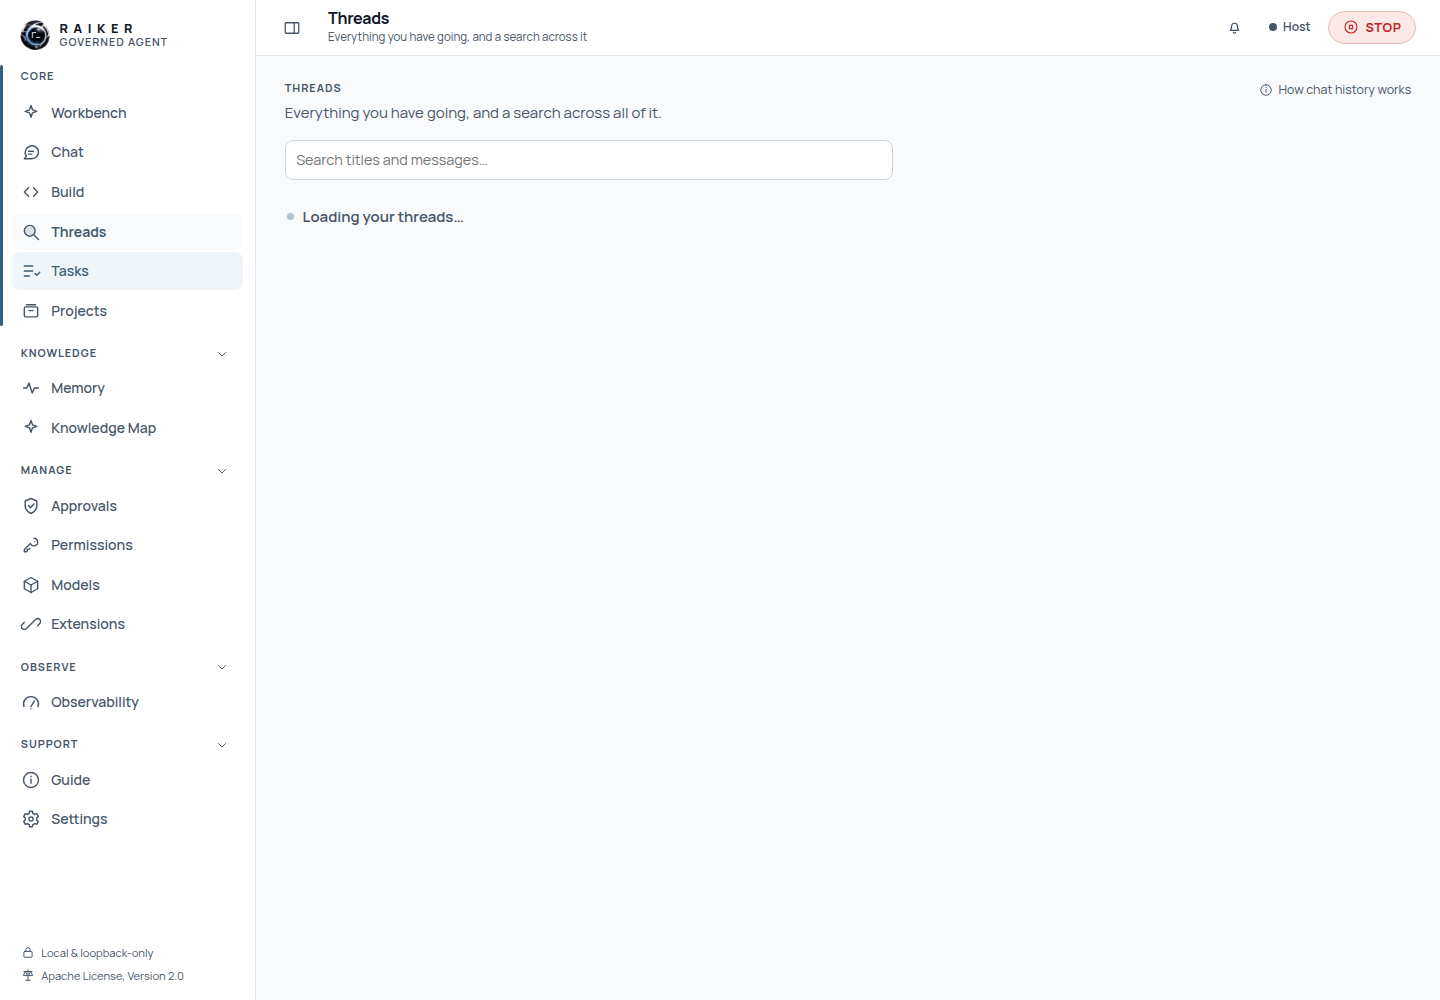
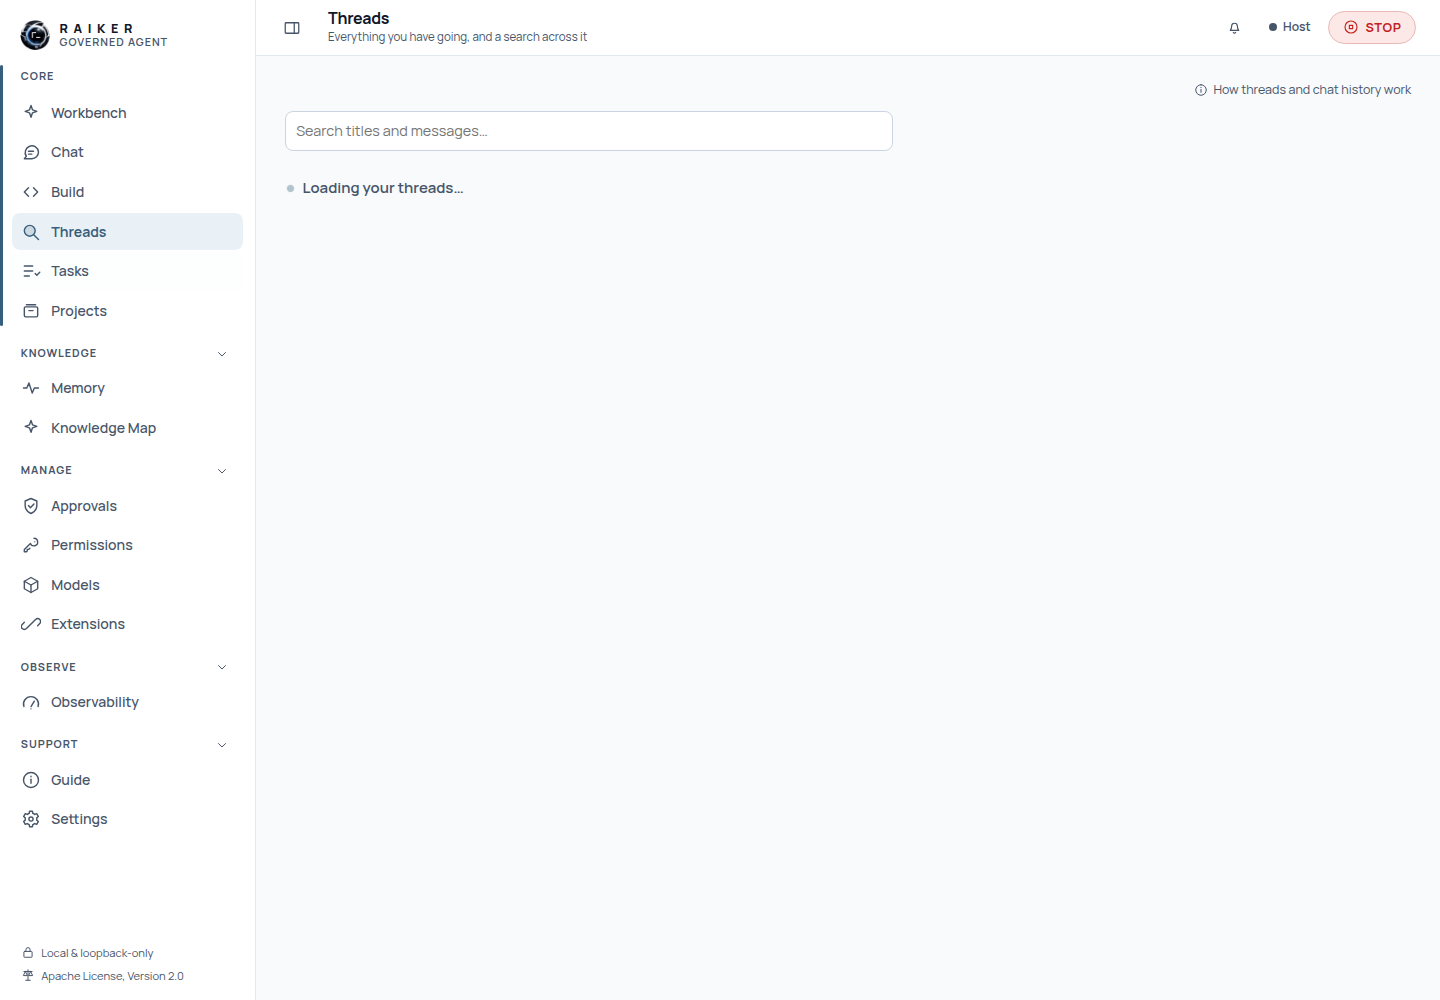
A grey circle beside Send, and a page saying its own name three times
Both found by walking the round's own surfaces, and both are its own doing:
FIXED-365 stopped a fresh install selecting a model it cannot serve, so the
"no model" state went from almost never on screen to always, until the owner
chooses one.

The context ring had no arc to draw and drew its track anyway — a bare circle
next to Send, labelled with the constant "Context window", so there was nothing
in it and nothing saying why. It draws a dash now, and both composers name the
state, which is also what a screen reader hears instead of a window that sounds
like it has a size.

Threads printed its own name and purpose under a topbar already showing both.
On an empty board that was three lines of chrome over nothing.

Claude-Session: https://claude.ai/code/session_016YA3n1hhkEFz7VCnfQ7Nbs

Changed region(s): [[0.1875, 0.062, 0.4688, 0.248], [0.8438, 0.062, 0.9688, 0.093]]

diff --git a/apps/web/src/lib/views/ChatView.composerParity.test.ts b/apps/web/src/lib/views/ChatView.composerParity.test.ts
@@ -97,6 +97,33 @@ const NON_REASONING_PROFILE = {
 };
 
 describe("ChatView composer parity", () => {
+  // FIXED-365 exposed this. With no model selected there is no capacity to
+  // report, so the ring drew a bare grey circle beside Send — a control with no
+  // content and no explanation, which a fresh install now meets every time
+  // rather than almost never.
+  it("says the capacity is unknown rather than drawing an unexplained ring", async () => {
+    stubFetch({ ...routes(), "GET /api/models": { profiles: [], chat_profiles: [] } });
+    render(ChatView, { projects });
+
+    expect(
+      await screen.findByRole("button", { name: "Context window — capacity unknown" }),
+    ).toBeInTheDocument();
+  });
+
+  it("names the window plainly once a model reports one", async () => {
+    const sized = {
+      profile_id: "test-ready", provider: "ollama", model: "test-model",
+      selected: true, configured: true, ready: true, readiness_state: "ready",
+      context_window_tokens: 200_000,
+    };
+    stubFetch({ ...routes(), "GET /api/models": { profiles: [sized], chat_profiles: [sized] } });
+    render(ChatView, { projects });
+
+    expect(
+      await screen.findByRole("button", { name: "Context window" }),
+    ).toBeInTheDocument();
+  });
+
   it("is the Cowork-minimal composer: no Build switch, no duplicate capacity chip", async () => {
     stubFetch(routes());
     render(ChatView, { projects });
@@ -110,7 +137,7 @@ describe("ChatView composer parity", () => {
     expect(screen.queryByLabelText("Execution environment")).not.toBeInTheDocument();
     // What a Cowork-shaped composer does keep.
     expect(screen.getByRole("button", { name: "Dictate" })).toBeInTheDocument();
-    expect(screen.getByRole("button", { name: "Context window" })).toBeInTheDocument();
+    expect(screen.getByRole("button", { name: /^Context window/ })).toBeInTheDocument();
   });
 
   it("keeps dictated text editable and sends it only after explicit Send", async () => {
@@ -216,7 +243,7 @@ describe("ChatView composer parity", () => {
     expect(rail.closest(".chat-layout")).toHaveClass("with-rail");
     expect(screen.getByLabelText("Project for this chat")).toBeInTheDocument();
     expect(screen.getByRole("button", { name: /approval mode/i })).toBeInTheDocument();
-    expect(screen.getByRole("button", { name: "Context window" })).toBeInTheDocument();
+    expect(screen.getByRole("button", { name: /^Context window/ })).toBeInTheDocument();
   });
 
   it("uses the persisted selected model and exposes only its supported thinking efforts", async () => {

diff --git a/apps/web/src/lib/views/SearchChatView.svelte b/apps/web/src/lib/views/SearchChatView.svelte
@@ -102,11 +102,10 @@
 </script>
 
 <section class="search-chat">
+  <!-- The topbar already carries this destination's name and what it is for.
+       Repeating both here was two lines of the same sentence above an empty
+       page; the search box is what the owner came for. -->
   <header>
-    <div>
-      <p class="kicker">Threads</p>
-      <p class="intro">Everything you have going, and a search across all of it.</p>
-    </div>
     <GuideLink route="search-chat" />
   </header>
   <label class="search-field">
@@ -232,14 +231,9 @@
   header {
     display: flex;
     align-items: flex-start;
-    justify-content: space-between;
+    justify-content: flex-end;
     gap: var(--space-4);
-    margin-bottom: var(--space-4);
-  }
-  .intro {
-    max-width: var(--prose-measure);
-    margin: 0;
-    color: var(--text-2);
+    margin-bottom: var(--space-3);
   }
   .search-field {
     display: block;
@@ -356,9 +350,6 @@
     color: var(--warn);
   }
   @media (max-width: 42rem) {
-    header {
-      flex-direction: column;
-    }
     li a {
       grid-template-columns: 1fr;
     }

diff --git a/apps/web/src/lib/components/ContextRing.svelte b/apps/web/src/lib/components/ContextRing.svelte
@@ -50,6 +50,22 @@
       stroke-dasharray={`${dash} ${C}`}
       transform="rotate(-90 8 8)"
     />
+  {:else}
+    <!-- Nothing is known about this model's capacity, so the ring has no arc to
+         draw. Without this it renders as a bare grey circle beside Send: a
+         control with no content and no explanation, which is what a fresh
+         install now sees every time (FIXED-365 stopped it selecting a model it
+         cannot serve). The dash says "no measurement", which is true, and is
+         what the popover behind it goes on to explain. -->
+    <line
+      x1="5"
+      y1="8"
+      x2="11"
+      y2="8"
+      stroke="var(--text-3)"
+      stroke-width="1.6"
+      stroke-linecap="round"
+    />
   {/if}
 </svg>
 

diff --git a/apps/web/src/lib/views/BuildView.svelte b/apps/web/src/lib/views/BuildView.svelte
@@ -2090,9 +2090,13 @@
               <button
                 type="button"
                 class="context-trigger"
-                aria-label="Context window"
+                aria-label={activeProfile?.context_window_tokens
+                  ? "Context window"
+                  : "Context window — capacity unknown"}
                 aria-expanded={contextOpen}
-                title="Context window"
+                title={activeProfile?.context_window_tokens
+                  ? "Context window"
+                  : "Context window — capacity unknown"}
                 onclick={() => { contextOpen = !contextOpen; if (contextOpen) void refreshContextUsage(); }}
               >
                 <ContextRing

diff --git a/apps/web/src/lib/guideSections.ts b/apps/web/src/lib/guideSections.ts
@@ -25,7 +25,7 @@ const SECTIONS: Record<string, GuideTarget> = {
   extensions: { slug: "extensions-and-mcp", label: "How extensions work" },
   connections: { slug: "extensions-and-mcp", label: "How connectors work" },
   "new-chat": { slug: "working-in-chat", label: "How Chat works" },
-  "search-chat": { slug: "working-in-chat", label: "How chat history works" },
+  "search-chat": { slug: "working-in-chat", label: "How threads and chat history work" },
   checkpoints: { slug: "permissions-and-runtime-modes", label: "How checkpoints work" },
   observe: { slug: "troubleshooting", label: "How to read the record" },
   // The audit log carried four sentences of standing explanation above its own

diff --git a/apps/web/src/lib/views/ChatView.svelte b/apps/web/src/lib/views/ChatView.svelte
@@ -2057,9 +2057,13 @@
             <button
               type="button"
               class="context-trigger"
-              aria-label="Context window"
+              aria-label={activeProfile?.context_window_tokens
+                ? "Context window"
+                : "Context window — capacity unknown"}
               aria-expanded={contextOpen}
-              title="Context window"
+              title={activeProfile?.context_window_tokens
+                ? "Context window"
+                : "Context window — capacity unknown"}
               onclick={() => { contextOpen = !contextOpen; if (contextOpen) void refreshContextUsage(); }}
             >
               <ContextRing

diff --git a/apps/web/src/lib/views/ChatView.test.ts b/apps/web/src/lib/views/ChatView.test.ts
@@ -771,7 +771,7 @@ describe("ChatView streaming transcript", () => {
       },
     });
     render(ChatView);
-    await fireEvent.click(screen.getByRole("button", { name: "Context window" }));
+    await fireEvent.click(screen.getByRole("button", { name: /^Context window/ }));
     expect(screen.getByText("0 tokens used")).toBeInTheDocument();
     expect(screen.getByText(/of [\d,]+ available/)).toBeInTheDocument();
     expect(screen.getByText(/[\d,]+ tokens remaining/)).toBeInTheDocument();

diff --git a/docs/plans/FIXED_ITEMS.md b/docs/plans/FIXED_ITEMS.md
@@ -383,6 +383,7 @@ Evidence: [`screenshots/working/`](screenshots/working) (verified behaviour),
 | [FIXED-368](#fixed-368--where-did-i-say-that-was-answered-what-am-i-working-on-was-not) | — | Chat / cross-chat surface | Fixed 2026-09-03 (GAP-CHAT C18) |
 | [FIXED-369](#fixed-369--a-reviewer-could-accept-a-change-or-reject-it-and-nothing-between) | — | Build / Approvals / code review | Fixed 2026-09-03 (GAP-BUILD B14 remainder) |
 | [FIXED-370](#fixed-370--a-valid-key-was-reported-as-a-bare-http-status) | Medium | Models / provider errors | Fixed 2026-09-03 (BUG-272, raised and closed in the same round) |
+| [FIXED-371](#fixed-371--two-controls-with-nothing-in-them-found-by-the-sweep) | Low | Web UI | Fixed 2026-09-03 (found by this round's own UI sweep) |
 
 ---
 
@@ -15862,3 +15863,38 @@ identity-linked, so the provider wants a workspace named with it. Use a standard
 API key from the provider's console, or one scoped to a single workspace, then
 connect again. The key you pasted is not broken — it is the wrong kind for this
 call."* Evidence: [`screenshots/working/bug-272-provider-answer-live.png`](screenshots/working/bug-272-provider-answer-live.png).
+
+---
+
+## FIXED-371 — Two controls with nothing in them, found by the sweep
+
+**Severity: Low. Area: web UI. Status: Fixed 2026-09-03, in the round that
+caused them.**
+
+Both were exposed rather than introduced by
+[FIXED-365](#fixed-365--a-fresh-install-named-a-model-nobody-had): a fresh
+install used to select a model unconditionally, so the *no model* state was
+almost never on screen. It now is, every time, until the owner chooses one.
+
+**The empty ring.** With no model selected there is no context window to report,
+so `ContextRing` drew its grey track and no arc — a bare circle beside **Send**,
+with no content and, since its label was the constant "Context window", no
+explanation either. It now draws a dash, which means *no measurement*, and both
+composers name the state: **"Context window — capacity unknown"**. That is what
+a screen reader hears too, rather than a window that sounds like it has a size.
+
+**Threads said its own name three times.** The topbar carries a destination's
+name and what it is for. `SearchChatView` repeated both underneath — a kicker
+and an intro that were the same sentence as the hint one line above them —
+which on an empty board was three lines of chrome over nothing. Removed; the
+search box is what the owner came for. The guide link beside it now says *"How
+threads and chat history work"*, because the destination stopped being only a
+search.
+
+**Guarded.** `ChatView.composerParity.test.ts` pins both states of the ring —
+unknown, and named once a model reports a window. `SearchChatView.test.ts` and
+the mocked desktop audit cover the header.
+
+**User-interface outcome.** No control on a fresh install renders as an
+unexplained shape, and no page repeats the sentence the topbar is already
+showing.
